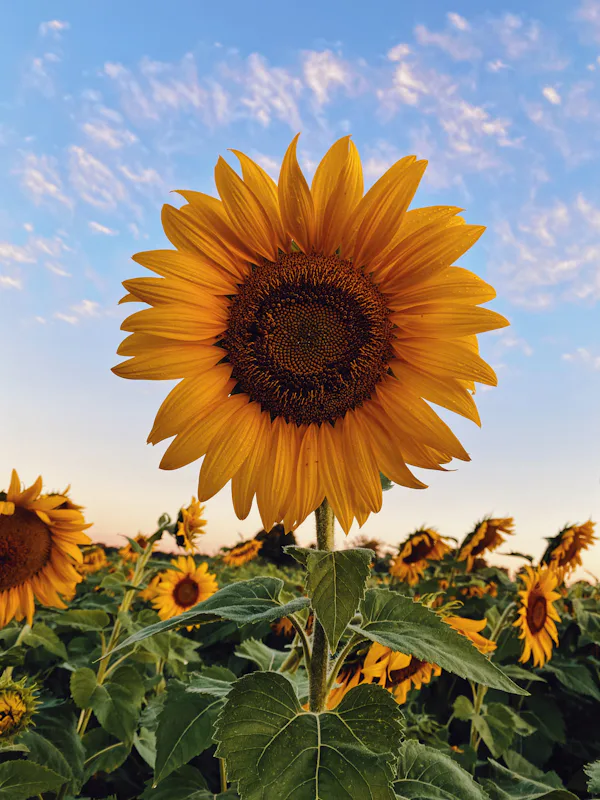
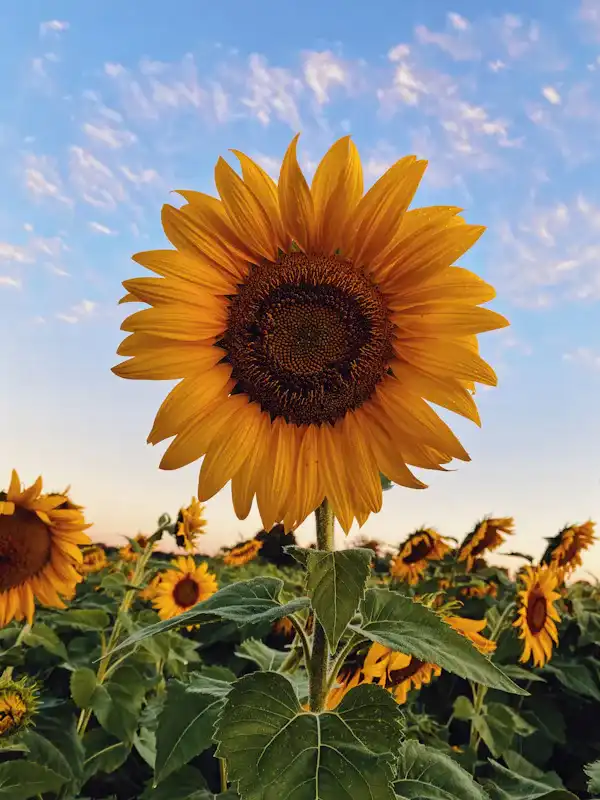
Add files via upload

diff --git a/index.html b/index.html
@@ -1,4 +1,4 @@
-<!DOCTYPE html>
+<!DOCTYPE html>
 <html lang="en">
 <head>
   <meta charset="UTF-8">
@@ -6,7 +6,6 @@
   <title>Electronic Store - Ultimate Mega Store</title>
   <link rel="stylesheet" href="styles.css">
   <link href="https://fonts.googleapis.com/icon?family=Material+Icons" rel="stylesheet">
-
   <link href="https://unpkg.com/aos@2.3.1/dist/aos.css" rel="stylesheet">
 </head>
 <body>
@@ -20,17 +19,17 @@
       <li><a href="contact.html">Contact</a></li>
       <li><a href="login.html">Login</a></li>
     </ul>
-        <div class="nav-icons">
+    <div class="nav-icons">
       <div class="mobile-menu-btn">☰</div>
     </div>
   </nav>
 
   <!-- 1. Hero Banner -->
-  <header class="hero container" style="background: url('https://images.unsplash.com/photo-1593640408182-31c70c8268f5?w=1600&q=80') center/cover; padding: 10rem 2rem; border-radius: 24px; margin-top: 2rem; color: white; text-align: left; display: flex; align-items: center; position: relative;">
+  <header class="hero container hero-banner-custom" style="background: url('https://images.unsplash.com/photo-1593640408182-31c70c8268f5?w=1600&q=80') center/cover; border-radius: 24px; margin-top: 2rem; color: white; text-align: left; display: flex; align-items: center; position: relative;">
     <div style="position: absolute; inset: 0; background: linear-gradient(to right, rgba(0,0,0,0.9), rgba(0,0,0,0.2)); border-radius: 24px;"></div>
-    <div style="position: relative; z-index: 2; max-width: 600px; padding-left: 3rem;">
+    <div class="hero-content-custom">
       <span style="background: var(--primary-color); color: white; padding: 5px 15px; border-radius: 20px; font-weight: 700; text-transform: uppercase; font-size: 0.8rem; letter-spacing: 2px;">Mega Sale</span>
-      <h1 style="font-size: 4.5rem; line-height: 1.1; margin: 1.5rem 0; color: white;">The Future of Tech is Here.</h1>
+      <h1 class="hero-title" style="color: white; margin: 1.5rem 0;">The Future of Tech is Here.</h1>
       <p style="font-size: 1.25rem; opacity: 0.9; margin-bottom: 2.5rem;">Up to 50% Off on Premium Laptops, Smartphones, and Smart Home Devices. Limited time offer!</p>
       <a href="404.html" class="btn" style="font-size: 1.2rem; padding: 15px 40px;">Shop Now 🛍️</a>
     </div>
@@ -90,7 +89,7 @@
     <div class="flash-sale-banner">
       <div>
         <span class="hero-label" style="color: var(--primary-color);">Flash Sale</span>
-        <h2 style="font-size: 3rem; margin-bottom: 0.5rem; color: white;">Today's Deals!</h2>
+        <h2 class="section-title" style="color: white; margin-bottom: 0.5rem; text-align: left;">Today's Deals!</h2>
         <p style="color: rgba(255,255,255,0.8); font-size: 1.2rem;">Hurry up! Offers end in:</p>
         <div class="timer-box">
           <div class="timer-item"><div class="timer-value">12</div><div class="timer-label">Hours</div></div>
@@ -146,7 +145,7 @@
 
   <!-- 10. Special Offers & Discounts -->
   <section class="container" style="margin-bottom: 5rem;">
-    <div style="display: grid; grid-template-columns: 1fr 1fr; gap: 2rem;">
+    <div class="special-offers-grid">
       <div style="background: var(--primary-color); color: white; padding: 4rem; border-radius: 16px; text-align: center;">
         <h2 style="color: white; font-size: 2.5rem;">Up to 50% Off</h2>
         <p style="opacity: 0.9;">On selected audio equipment.</p>
@@ -163,7 +162,7 @@
   <!-- 11. Why Choose Us? -->
   <section class="container section-padding" style="padding-top: 0;">
     <h2 class="section-title">Why Choose Us?</h2>
-    <div style="display: grid; grid-template-columns: repeat(auto-fit, minmax(200px, 1fr)); gap: 2rem; text-align: center;">
+    <div class="why-choose-us-grid">
       <div><div style="font-size: 3rem; margin-bottom: 1rem;">✔️</div><h3 style="font-size: 1.2rem;">Genuine Products</h3></div>
       <div><div style="font-size: 3rem; margin-bottom: 1rem;">🚚</div><h3 style="font-size: 1.2rem;">Fast Delivery</h3></div>
       <div><div style="font-size: 3rem; margin-bottom: 1rem;">🔒</div><h3 style="font-size: 1.2rem;">Secure Payments</h3></div>

diff --git a/styles.css b/styles.css
@@ -789,3 +789,17 @@ footer { background-color: var(--bg-secondary); padding: 4rem 5% 2rem; border-to
     overflow-x: hidden;
   }
 }
+
+
+/* Mobile Responsive Fixes */
+.hero-banner-custom { padding: 10rem 2rem; }
+.hero-content-custom { padding-left: 3rem; max-width: 600px; position: relative; z-index: 2; }
+.special-offers-grid { display: grid; grid-template-columns: 1fr 1fr; gap: 2rem; }
+.why-choose-us-grid { display: grid; grid-template-columns: repeat(auto-fit, minmax(140px, 1fr)); gap: 2rem; text-align: center; }
+@media (max-width: 768px) {
+  .hero-banner-custom { padding: 4rem 1rem !important; }
+  .hero-content-custom { padding-left: 0 !important; }
+  .special-offers-grid { grid-template-columns: 1fr !important; }
+  .testimonials { grid-template-columns: 1fr !important; }
+  .product-grid { grid-template-columns: repeat(auto-fill, minmax(140px, 1fr)) !important; }
+}